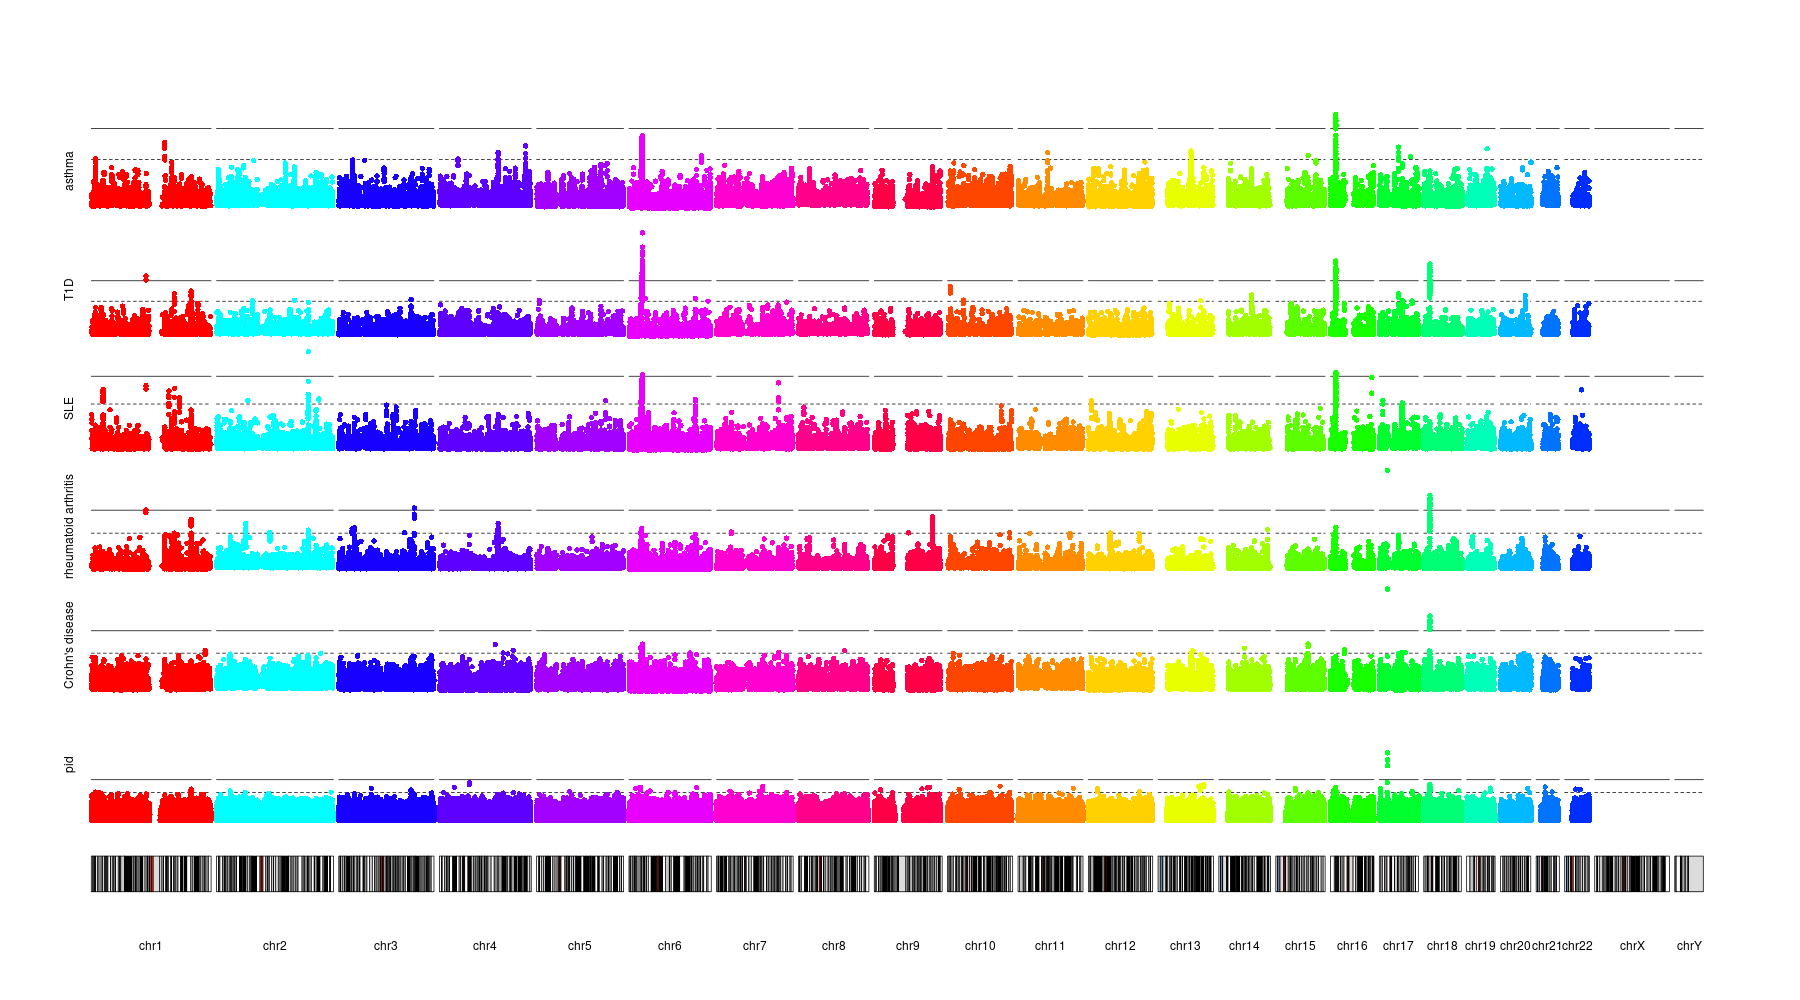
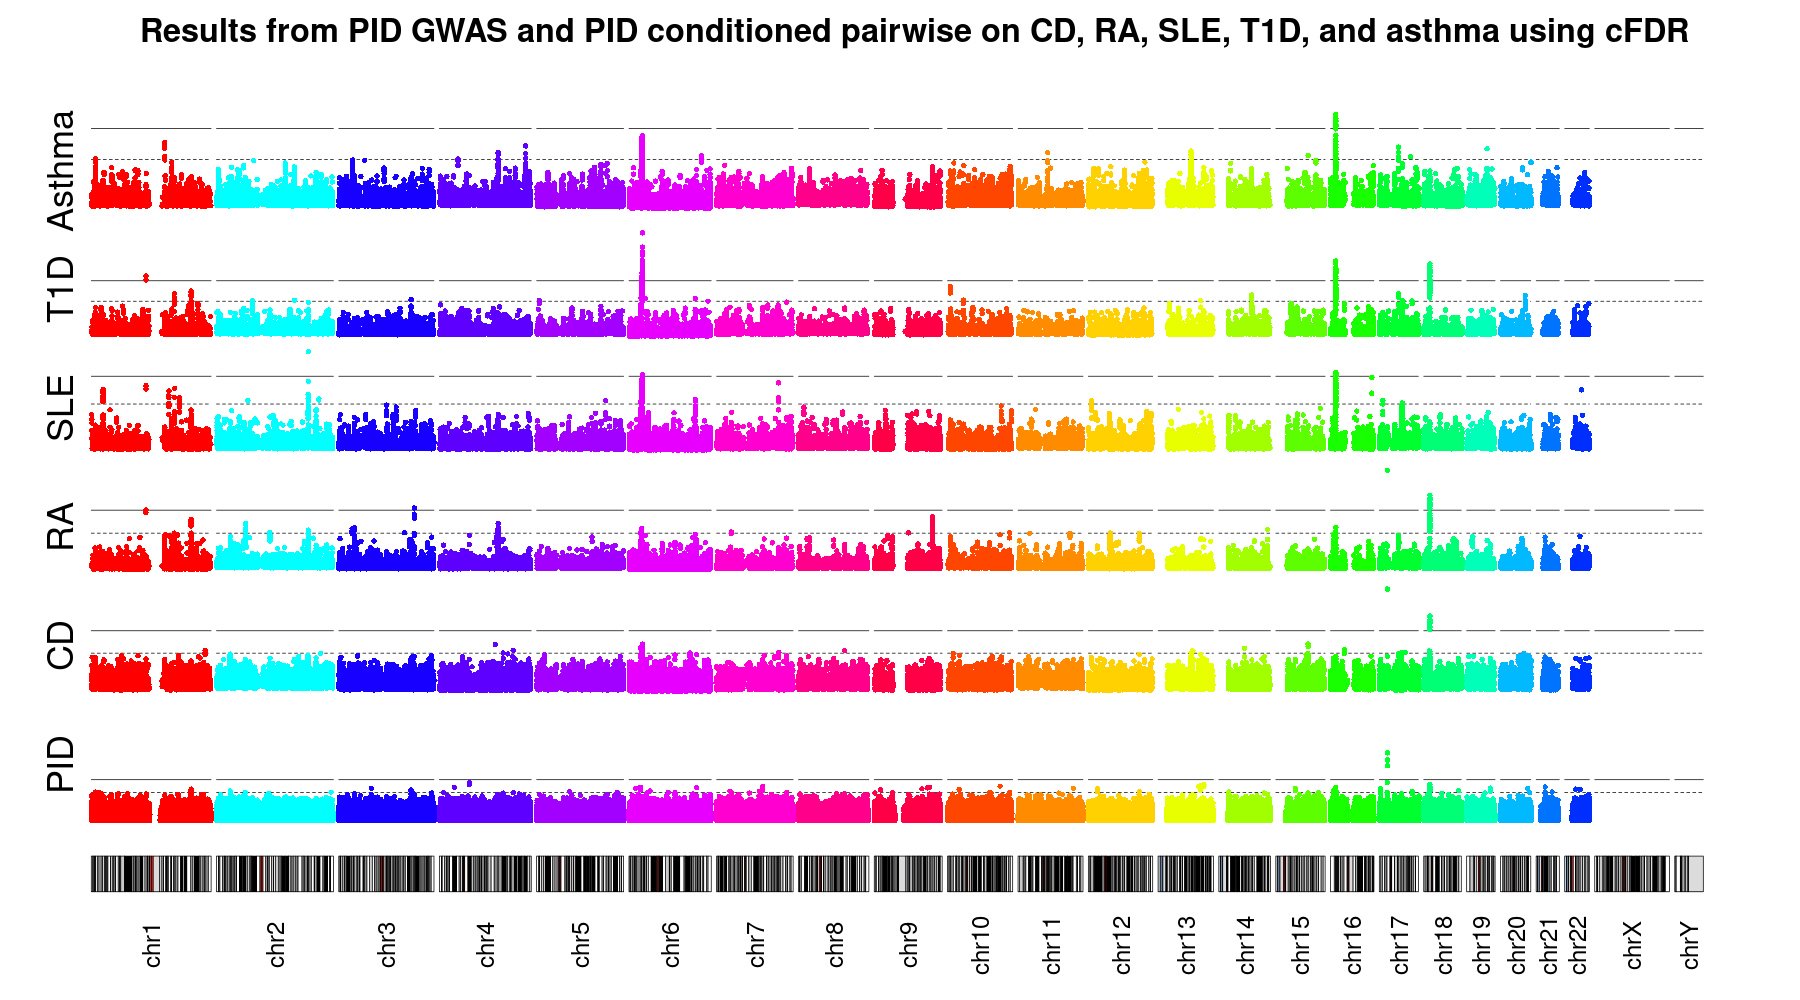
Added correctly formatted Manhattan pltos

diff --git a/entries/270121.md b/entries/270121.md
@@ -14,4 +14,7 @@
 
 ### cFDR results
 
+I mentioned `karyoploteR` last week as a solution to plotting more complex Manhattan plots. It took more time than I would have liked, but I got it working. Below are two plots which I wish I had had to hand last week.
+
 ![](/images/270121/pid_cd_ra_sle_t1d_asthma.png)
+![](/images/270121/pid_cad_t2d_aster_uc_asthma.png)
